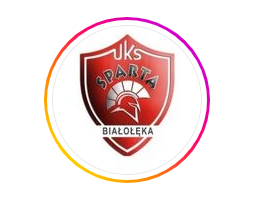
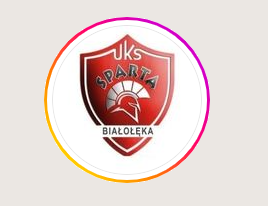
ramka dla fb

diff --git a/index.html b/index.html
@@ -87,66 +87,53 @@
                 </li>
                 <li>
                     <figure>
-                        <img class="image" src="img/ludzie/suli.png">
-                        <figcaption>Suli</figcaption>
-                    </figure>
-                </li>
-                <li>
-                    <figure>
                         <img class="image" src="img/ludzie/kowalec.png">
                         <figcaption>Alkoholik</figcaption>
                     </figure>
                 </li>
-                <div style="clear:both;"></div>
-            </ul>
-        </section>
-        <h1>Kontakt</h1>
-        <p>Kowalec - 6969</p>
-        <p>Suli - 96</p>
-
-        <section class="gallery">
-            <ul>
                 <li>
                     <figure>
-                        <h1><a href="https://www.instagram.com/spartabialoleka/">Facebook</a></h1><br>
-                        <script async defer crossorigin="anonymous"
-                            src="https://connect.facebook.net/pl_PL/sdk.js#xfbml=1&version=v16.0"
-                            nonce="PdTXDR5j"></script>
-                        <div class="fb-page" data-href="https://www.facebook.com/SpartaBialolekaSzachy"
-                            data-tabs="timeline" data-width="" data-height="" data-small-header="false"
-                            data-adapt-container-width="true" data-hide-cover="false" data-show-facepile="true">
-                            <blockquote cite="https://www.facebook.com/SpartaBialolekaSzachy"
-                                class="fb-xfbml-parse-ignore"><a
-                                    href="https://www.facebook.com/SpartaBialolekaSzachy">Facebook</a></blockquote>
-                        </div>
-                    </figure>
-                </li>
-                <li>
-                    <figure>
-                        <h1><a href="https://www.instagram.com/spartabialoleka/">Instagram</a></h1>
-                        <p><a href="https://www.instagram.com/spartabialoleka/"><img class="image" src="img/instagram.png"></a></p>
+                        <img class="image" src="img/ludzie/suli.png">
+                        <figcaption>Suli</figcaption>
                     </figure>
                 </li>
                 <div style="clear:both;"></div>
             </ul>
         </section>
 
+        <section class="contact">
+            <div>
+                <h1>Kontakt</h1>
+                <h2>Telefon</h2>
+                <p>Kowalec - 6969</p>
+                <p>Suli - 96</p>
+                <h2>Email</h2>
+                <p>kowalec69@gmail.com</p>
+            </div>
 
+            <div>
+                <a href="https://www.instagram.com/spartabialoleka/">
+                    <h1 id="instagram">Instagram</h1>
+                    <img class="image" src="img/instagram.png" />
+                </a>
+            </div>
 
-        <div id="fb-root"></div>
-        <h1><a href="https://www.facebook.com/SpartaBialolekaSzachy">Facebook</a></h1>
+            <div id="facebook">
+                <h1 id="facebook"><a href="https://www.instagram.com/spartabialoleka/">Facebook</a></h1>
+                <script async defer crossorigin="anonymous"
+                    src="https://connect.facebook.net/pl_PL/sdk.js#xfbml=1&version=v16.0" nonce="PdTXDR5j"></script>
+                <div class="fb-page" data-href="https://www.facebook.com/SpartaBialolekaSzachy" data-tabs="timeline"
+                    data-width="" data-height="" data-small-header="false" data-adapt-container-width="true"
+                    data-hide-cover="false" data-show-facepile="true">
+                    <blockquote cite="https://www.facebook.com/SpartaBialolekaSzachy" class="fb-xfbml-parse-ignore">
+                        <a href="https://www.facebook.com/SpartaBialolekaSzachy">Facebook</a>
+                    </blockquote>
+                </div>
+            </div>
 
-        <script async defer crossorigin="anonymous"
-            src="https://connect.facebook.net/pl_PL/sdk.js#xfbml=1&version=v16.0" nonce="PdTXDR5j"></script>
-        <div class="fb-page" data-href="https://www.facebook.com/SpartaBialolekaSzachy" data-tabs="timeline"
-            data-width="" data-height="" data-small-header="false" data-adapt-container-width="true"
-            data-hide-cover="false" data-show-facepile="true">
-            <blockquote cite="https://www.facebook.com/SpartaBialolekaSzachy" class="fb-xfbml-parse-ignore"><a
-                    href="https://www.facebook.com/SpartaBialolekaSzachy">Facebook</a></blockquote>
-        </div>
+        </section>
+        <div style="clear:both;"></div>
 
-        <h1><a href="https://www.instagram.com/spartabialoleka/">Instagram</a></h1>
-        <p><a href="https://www.instagram.com/spartabialoleka/"><img class="image" src="img/instagram.png"></a></p>
     </main>
     <footer>
         Splitner holding

diff --git a/styles/main.css b/styles/main.css
@@ -50,9 +50,9 @@ h1#logo:hover {
     margin-top: 100px;
     position: relative;
     width: 90%;
-    height:750px;
-    object-fit:cover;
-    object-position:bottom;
+    height: 750px;
+    object-fit: cover;
+    object-position: bottom;
     display: block;
     margin-left: auto;
     margin-right: auto;
@@ -98,6 +98,10 @@ article>p {
     color: #2c0900;
 }
 
+.gallery>ul {
+    display: inline-flex;
+    flex-wrap: wrap;
+}
 
 .gallery>ul>li {
     list-style-type: none;
@@ -128,7 +132,9 @@ article>p {
 .gallery>ul>li>figure>img {
     width: 100%;
     height: 100%;
+    object-fit: cover;
     float: left;
+    border: 3px solid #FF0000;
     /*   padding: 10px; */
 }
 
@@ -137,17 +143,42 @@ article>p {
     text-align: center;
 }
 
+a {
+    text-decoration: none;
+    color: black;
+}
+
+.contact{
+    display:-webkit-flex;
+    -webkit-justify-content:center;
+
+    display:flex;
+    justify-content:center;
+
+}
+
+.contact>div {
+
+    -webkit-flex:1;
+    flex:1;
+    border:thin solid #777;
+    list-style-type: none;
+    float: left;
+    margin-left: auto;
+    width: 33%;
+    /* display: inline-flex;
+    flex-wrap: wrap; */
+}
+
+/* h1#facebook{
+    text-align: center;
+}
+
+h1#instagram{
+    text-align: center;
+} */
+
 footer {
     text-align: center;
     padding: 10px;
-}
-
-a {
-    text-decoration: none; 
-    color: black; 
-}
-
-.gallery>ul {
-    display: inline-flex;
-    flex-wrap: wrap;
 }
